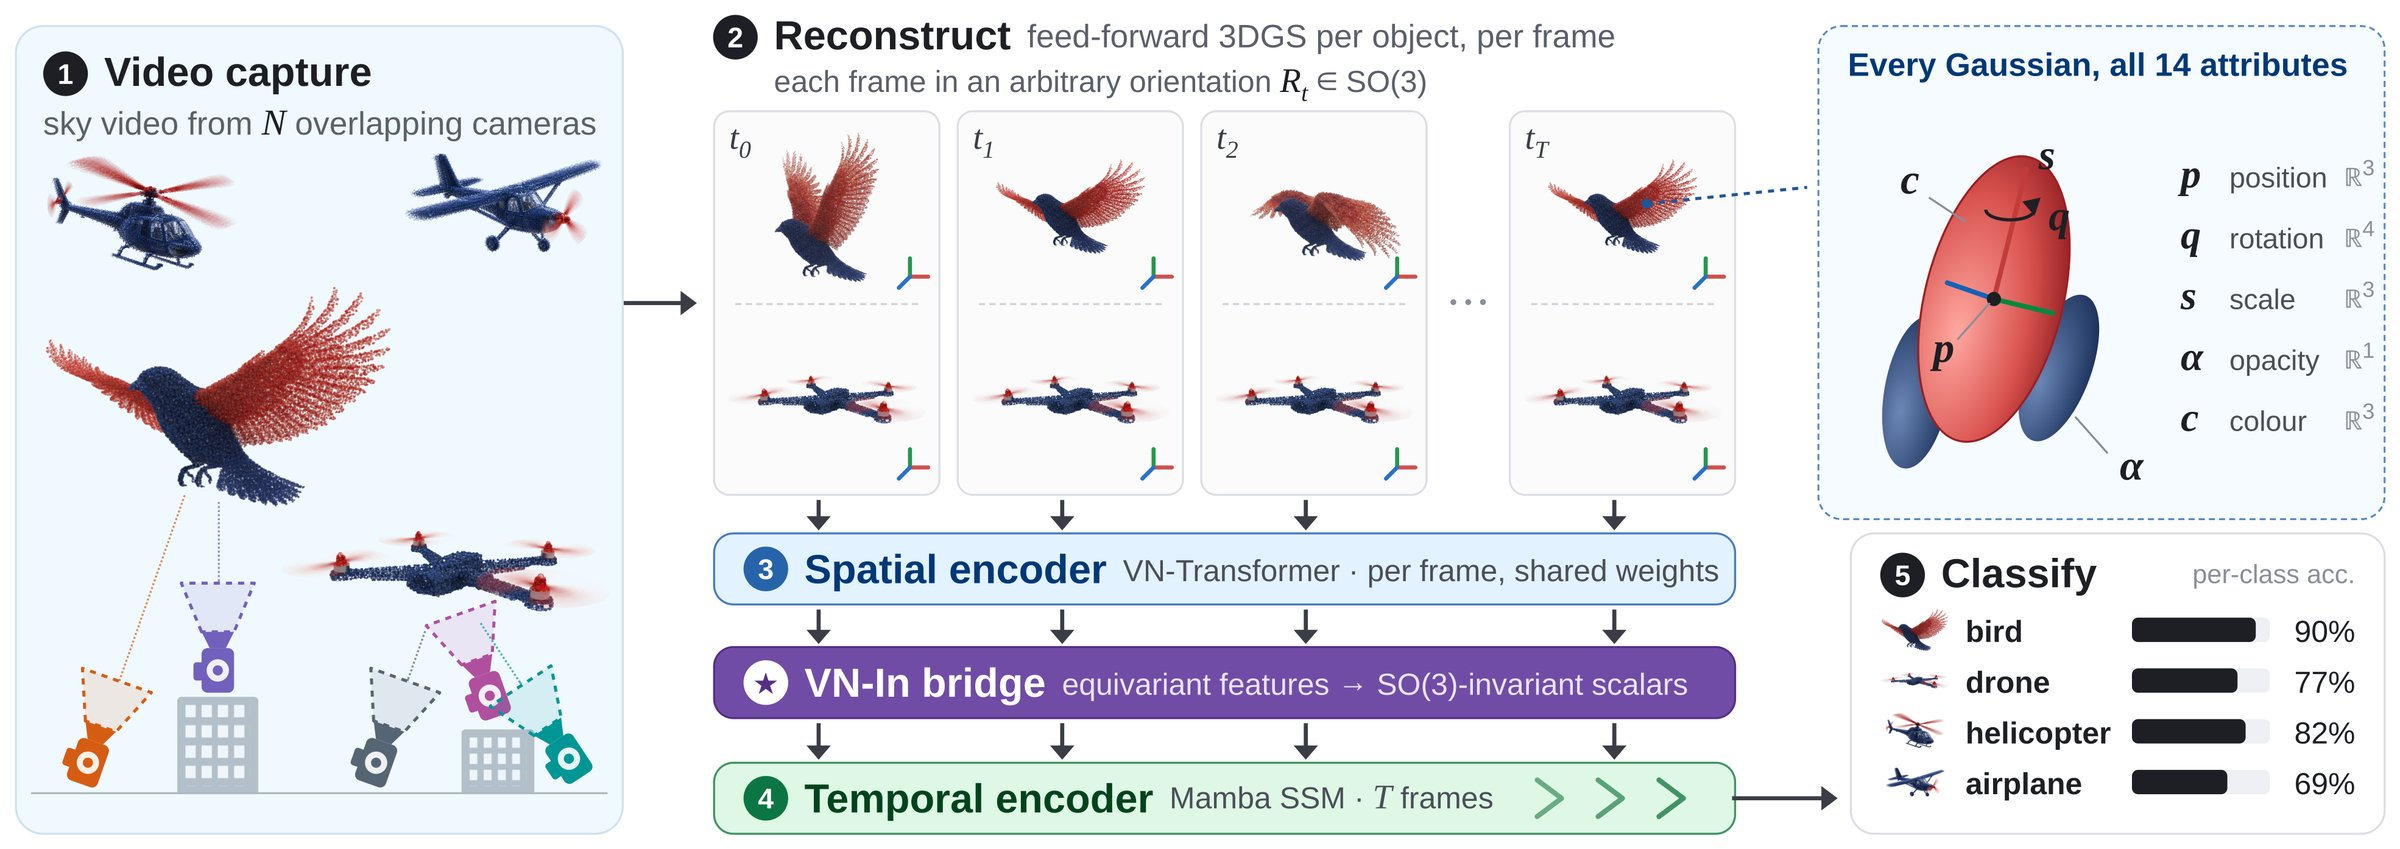
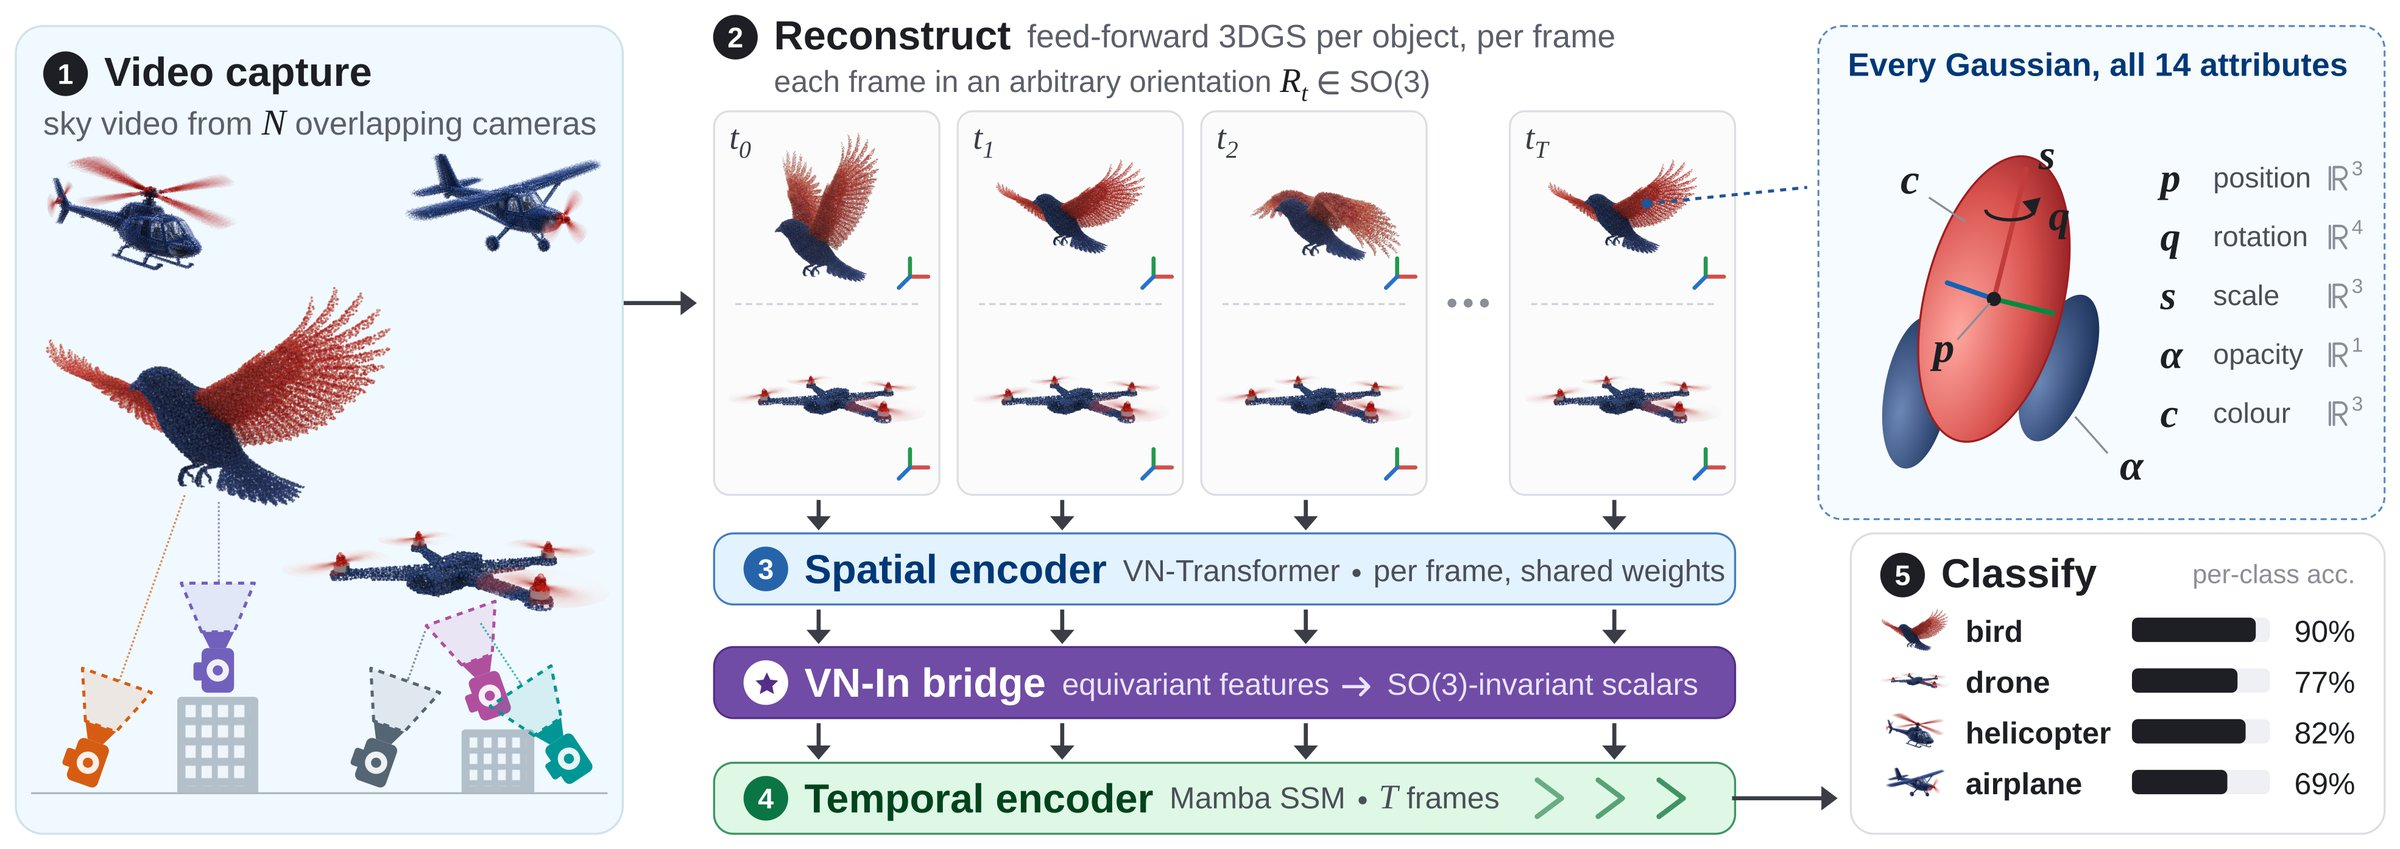
Update teaser, dataset licence and attribution link; deploy on push

diff --git a/site/index.html b/site/index.html
@@ -4789,7 +4789,7 @@
     <div class="card card--accent card--wide">
       <div>
         <h3>Download</h3>
-        <p>The feed-forward-reconstructed, preprocessed dataset (3.2 GB) with a sha256 manifest and the identity-disjoint split file. Source assets and Isaac Sim scenes are not redistributable and are not part of the release. Licence: TODO-LINK.</p>
+        <p>The feed-forward-reconstructed, preprocessed dataset (3.2 GB) with a sha256 manifest and the identity-disjoint split file. Source assets and Isaac Sim scenes are not redistributable and are not part of the release. Licence: per asset (CC BY 4.0, CC BY-SA 4.0 or CC BY-NC 4.0), see <a href="https://huggingface.co/datasets/alessandrolumiad/AeroSplat-4D/blob/main/ATTRIBUTION.md">ATTRIBUTION.md</a>.</p>
       </div>
       <a class="btn btn--secondary" href="https://huggingface.co/datasets/alessandrolumiad/AeroSplat-4D">Hugging Face</a>
     </div>
@@ -4808,7 +4808,7 @@
     <details class="credits-box">
       <summary>Asset credits</summary>
       <div>
-        <p>All 3D models were modified: converted to USD, rescaled, re-oriented, given rotor animation where applicable, and rendered in NVIDIA Isaac Sim or Blender. The full list of models in AeroSplat-4D is in <a href="TODO-LINK">ATTRIBUTION.md</a>.</p>
+        <p>All 3D models were modified: converted to USD, rescaled, re-oriented, given rotor animation where applicable, and rendered in NVIDIA Isaac Sim or Blender. The full list of models in AeroSplat-4D is in <a href="https://huggingface.co/datasets/alessandrolumiad/AeroSplat-4D/blob/main/ATTRIBUTION.md">ATTRIBUTION.md</a>.</p>
 
         <h4>Demo video and header</h4>
         <ul class="credits">
@@ -4887,7 +4887,7 @@
 <footer>
   <div class="wrap">
     <span>Delft University of Technology &middot; Sponsored by <a href="https://www.lumiad.com/">Lumiad</a> (LXT) with <a href="https://www.spacecific.com/">Spacecific</a> &middot; Code under the MIT licence</span>
-    <span>Hand-written page, no tracking &middot; <a href="#top">Back to top</a></span>
+    <span>No tracking &middot; <a href="#top">Back to top</a></span>
   </div>
 </footer>
 
